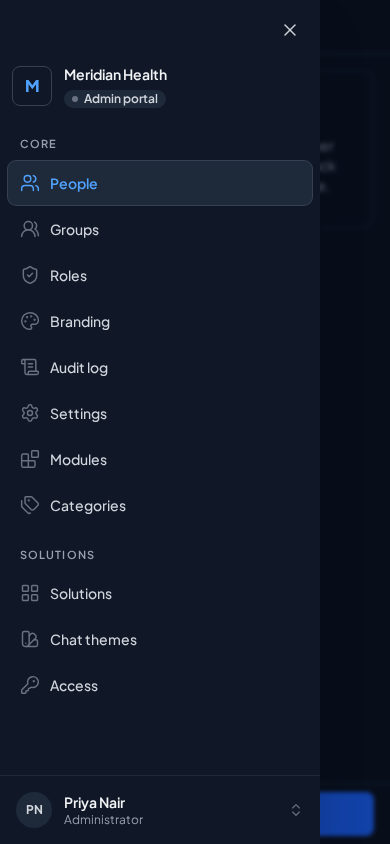
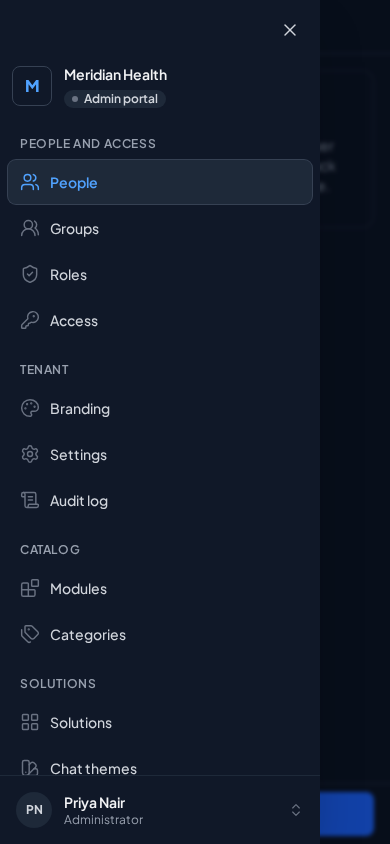
docs(design): update shell
Shared overlay and demo state fixes with recaptured screens.

diff --git a/docs/design/reference/shell/demoState.ts b/docs/design/reference/shell/demoState.ts
@@ -25,18 +25,46 @@ export interface DemoNav {
   items: Record<string, string | null>
   /** Module id to `tenant_module.enabled`, for the modules the preview switched. */
   enabled: Record<string, boolean>
+  /**
+   * Module id to "its reintroduction review was completed". A returned module needs that review once.
+   * Afterwards it is an ordinary module, so switching it off and on again is the ordinary one-step
+   * flow and never asks for a second review. Enablement alone cannot carry this, because an ordinary
+   * switched-off module and a module still awaiting its review both read `enabled: false`.
+   */
+  activated: Record<string, boolean>
+  /**
+   * Assignment ids the preview revoked on the Access screen. The reintroduction review of a
+   * returned module reads its retained assignments from the same ids, so removing one in Access and
+   * reopening the review shows a shorter list and a lower restore count. The product reads both
+   * lists from `role_assignment`; the preview keeps this record because each screen is a fresh page
+   * load.
+   */
+  revokedGrants: string[]
+  /**
+   * Module id to the values Tenant settings saved, so a reopened activation review shows the
+   * configuration the administrator just wrote. Saving settings never writes `enabled`, so this
+   * record never carries enablement.
+   */
+  moduleConfig: Record<string, Record<string, string | number | boolean | string[]>>
 }
 
 const KEY = 'genie.demo.nav'
 const EVENT = 'genie-demo-nav'
-const EMPTY: DemoNav = { categories: null, items: {}, enabled: {} }
+const EMPTY: DemoNav = { categories: null, items: {}, enabled: {}, activated: {}, revokedGrants: [], moduleConfig: {} }
 
 export function readDemoNav(): DemoNav {
   try {
     const raw = window.localStorage.getItem(KEY)
     if (!raw) return EMPTY
     const parsed = JSON.parse(raw) as Partial<DemoNav>
-    return { categories: parsed.categories ?? null, items: parsed.items ?? {}, enabled: parsed.enabled ?? {} }
+    return {
+      categories: parsed.categories ?? null,
+      items: parsed.items ?? {},
+      enabled: parsed.enabled ?? {},
+      activated: parsed.activated ?? {},
+      revokedGrants: parsed.revokedGrants ?? [],
+      moduleConfig: parsed.moduleConfig ?? {},
+    }
   } catch {
     return EMPTY
   }

diff --git a/docs/design/reference/shell/components/ShellWrapper.tsx b/docs/design/reference/shell/components/ShellWrapper.tsx
@@ -46,16 +46,18 @@ const workspaceNav = (active?: string) => [
 
 const adminNav = (active?: string) =>
   [
-    { label: 'People', href: '/admin/people', icon: Users, section: 'Core' },
-    { label: 'Groups', href: '/admin/groups', icon: UsersRound, section: 'Core' },
-    { label: 'Roles', href: '/admin/roles', icon: ShieldCheck, section: 'Core' },
+    // Core owns three captions, not one. Nine rows under a single CORE heading read as a flat list,
+    // and the admin rail has no child level to indent, so the grouping has to carry the hierarchy.
+    { label: 'People', href: '/admin/people', icon: Users, section: 'People and access' },
+    { label: 'Groups', href: '/admin/groups', icon: UsersRound, section: 'People and access' },
+    { label: 'Roles', href: '/admin/roles', icon: ShieldCheck, section: 'People and access' },
     // Access is core administration, so it stays reachable when the solutions module is switched off.
-    { label: 'Access', href: '/admin/access', icon: KeyRound, section: 'Core' },
-    { label: 'Branding', href: '/admin/branding', icon: Palette, section: 'Core' },
-    { label: 'Audit log', href: '/admin/audit', icon: ScrollText, section: 'Core' },
-    { label: 'Settings', href: '/admin/settings', icon: Settings, section: 'Core' },
-    { label: 'Modules', href: '/admin/modules', icon: Blocks, section: 'Core' },
-    { label: 'Categories', href: '/admin/categories', icon: Tags, section: 'Core' },
+    { label: 'Access', href: '/admin/access', icon: KeyRound, section: 'People and access' },
+    { label: 'Branding', href: '/admin/branding', icon: Palette, section: 'Tenant' },
+    { label: 'Settings', href: '/admin/settings', icon: Settings, section: 'Tenant' },
+    { label: 'Audit log', href: '/admin/audit', icon: ScrollText, section: 'Tenant' },
+    { label: 'Modules', href: '/admin/modules', icon: Blocks, section: 'Catalog' },
+    { label: 'Categories', href: '/admin/categories', icon: Tags, section: 'Catalog' },
     { label: 'Solutions', href: '/admin/solutions/solutions', icon: LayoutGrid, section: 'Solutions' },
     { label: 'Chat themes', href: '/admin/solutions/themes', icon: SwatchBook, section: 'Solutions' },
   ].map((i) => ({ ...i, isActive: i.href === active }))

diff --git a/docs/design/reference/shell/ShellPreview.tsx b/docs/design/reference/shell/ShellPreview.tsx
@@ -30,17 +30,18 @@ const workspaceNav = [
 ]
 
 const adminNav = [
-  { label: 'People', href: '/admin/people', isActive: true, icon: Users, section: 'Core' },
-  { label: 'Groups', href: '/admin/groups', icon: UsersRound, section: 'Core' },
-  { label: 'Roles', href: '/admin/roles', icon: ShieldCheck, section: 'Core' },
-  { label: 'Branding', href: '/admin/branding', icon: Palette, section: 'Core' },
-  { label: 'Audit log', href: '/admin/audit', icon: ScrollText, section: 'Core' },
-  { label: 'Settings', href: '/admin/settings', icon: Settings, section: 'Core' },
-  { label: 'Modules', href: '/admin/modules', icon: Blocks, section: 'Core' },
-  { label: 'Categories', href: '/admin/categories', icon: Tags, section: 'Core' },
+  { label: 'People', href: '/admin/people', isActive: true, icon: Users, section: 'People and access' },
+  { label: 'Groups', href: '/admin/groups', icon: UsersRound, section: 'People and access' },
+  { label: 'Roles', href: '/admin/roles', icon: ShieldCheck, section: 'People and access' },
+  // Access is core administration, so it stays reachable when the solutions module is switched off.
+  { label: 'Access', href: '/admin/access', icon: KeyRound, section: 'People and access' },
+  { label: 'Branding', href: '/admin/branding', icon: Palette, section: 'Tenant' },
+  { label: 'Settings', href: '/admin/settings', icon: Settings, section: 'Tenant' },
+  { label: 'Audit log', href: '/admin/audit', icon: ScrollText, section: 'Tenant' },
+  { label: 'Modules', href: '/admin/modules', icon: Blocks, section: 'Catalog' },
+  { label: 'Categories', href: '/admin/categories', icon: Tags, section: 'Catalog' },
   { label: 'Solutions', href: '/admin/solutions/solutions', icon: LayoutGrid, section: 'Solutions' },
   { label: 'Chat themes', href: '/admin/solutions/themes', icon: SwatchBook, section: 'Solutions' },
-  { label: 'Access', href: '/admin/solutions/access', icon: KeyRound, section: 'Solutions' },
 ]
 
 // Core category rows (DEC-51). Entries reference them by id.

diff --git a/docs/design/reference/shell/components/MainNav.tsx b/docs/design/reference/shell/components/MainNav.tsx
@@ -45,7 +45,7 @@ interface MainNavProps {
 
 export function GroupLabel({ children }: { children: React.ReactNode }) {
   return (
-    <div className="px-3 pb-1.5 pt-5 text-[11px] font-semibold uppercase tracking-[0.1em] text-gray-500 dark:text-gray-400">
+    <div className="px-3 pb-1.5 pt-5 text-xs font-semibold uppercase tracking-wider text-gray-600 dark:text-gray-400">
       {children}
     </div>
   )
@@ -57,7 +57,7 @@ const navRow = 'text-sm lg:h-10'
 const treeRow = 'text-sm lg:h-8'
 // A category is a heading, not a destination, so it is smaller and heavier than the
 // entries under it. The entries keep the readable size, because they are what you click.
-const catRow = 'text-[13px] lg:h-8'
+const catRow = 'text-sm lg:h-8'
 // Every row is medium and the selected one semibold, as the section navigator does.
 // The label sits in a fixed flex-1 box and 500 to 600 changes its advance by at most
 // 1px on a 62px label, so selecting a row never moves the text.
@@ -67,7 +67,7 @@ const rowIdle =
 const rowChild =
   'font-medium text-gray-600 hover:bg-gray-200/60 hover:text-gray-900 dark:text-gray-400 dark:hover:bg-gray-800 dark:hover:text-gray-100'
 const rowCategory = 'font-semibold text-gray-900 hover:bg-gray-200/60 dark:text-gray-100 dark:hover:bg-gray-800'
-const rowActive = 'bg-white font-semibold text-blue-700 shadow-sm ring-1 ring-gray-200 dark:bg-gray-800 dark:text-blue-400 dark:ring-gray-700'
+const rowActive = 'bg-white font-semibold text-blue-700 ring-1 ring-gray-200 dark:bg-gray-800 dark:text-blue-400 dark:ring-gray-700'
 
 function go(onNavigate: ((href: string) => void) | undefined, href: string) {
   return (e: React.MouseEvent) => {

diff --git a/docs/design/shell/spec.md b/docs/design/shell/spec.md
@@ -9,22 +9,22 @@ One shell component with two chromes: the member workspace and the admin portal.
 - Inbox → Notification inbox, with a blue unread count pill on the right [workspace]. Deferred: the platform schedules the inbox screen after the core sections (`DEC-21`), so the shell hides this entry and the pill until then. The design is kept as delivered early.
 - Pinned rail → Up to six favorite solutions, drag to reorder, under the workspace nav [workspace]
 - Category tree → One tree: a collapsible group with a count per core category that holds at least one entry, mixing solution entries and module entries sorted by label, then an ungrouped "Other" area for entries with no category [workspace]
-- People → People, Groups, and Roles [admin, Core]
-- Groups → People, Groups, and Roles [admin, Core]
-- Roles → People, Groups, and Roles [admin, Core]
-- Access → Access: Grants writes every role assignment, Overview reads who reaches what (`DEC-39`) [admin, Core]. It sits in Core, not under a module, so it stays reachable when the solutions module is switched off
-- Branding → Branding [admin, Core]
-- Audit log → Audit and Tenant Settings [admin, Core]
-- Settings → Audit and Tenant Settings [admin, Core]
-- Modules → Modules page: every compiled module, on or off, its category, and who reaches it (`DEC-50`) [admin, Core]
-- Categories → Categories page: the headings that group solutions and modules in the sidebar (`DEC-51`) [admin, Core]
+- People → People, Groups, and Roles [admin, People and access]
+- Groups → People, Groups, and Roles [admin, People and access]
+- Roles → People, Groups, and Roles [admin, People and access]
+- Access → Access: Grants writes every role assignment, Overview reads who reaches what (`DEC-39`) [admin, People and access]. It sits in a core group, not under a module, so it stays reachable when the solutions module is switched off
+- Branding → Branding [admin, Tenant]
+- Settings → Audit and Tenant Settings [admin, Tenant]
+- Audit log → Audit and Tenant Settings [admin, Tenant]
+- Modules → Modules page: every compiled module, on or off, its category, and who reaches it (`DEC-50`) [admin, Catalog]
+- Categories → Categories page: the headings that group solutions and modules in the sidebar (`DEC-51`) [admin, Catalog]
 - Solutions → Solutions admin [admin, Solutions]
 - Chat themes → Solutions admin [admin, Solutions]
 - Administration / Back to workspace → Switch chrome, in the user menu, only for admins
 - Account → Account page, in the user menu (`/account` or `/admin/account` so the chrome does not change)
 - Help and support → Tenant support URL or email from Branding Links, in the user menu
 
-Workspace sidebar, top to bottom: tenant block, WORKSPACE label, Solutions, Favorites, Inbox (hidden until the platform schedules the inbox screen, `DEC-21`), PINNED rail (at most six, drag to reorder, unchanged), divider, one category tree mixing solution and module entries, divider, the ungrouped "Other" area, user footer. The server decides what the tree shows: only entries the person may reach, and only categories that hold at least one of them. A module entry shows its icon; a solution entry shows none. Category names and "Other" entries start at the same x position, so the caret sits on the right. Admin sidebar: tenant block, ADMIN PORTAL pill, CORE group, one group per entitled module that declares admin pages, user footer. Future customer modules add one workspace entry and, if needed, one admin group.
+Workspace sidebar, top to bottom: tenant block, WORKSPACE label, Solutions, Favorites, Inbox (hidden until the platform schedules the inbox screen, `DEC-21`), PINNED rail (at most six, drag to reorder, unchanged), divider, one category tree mixing solution and module entries, divider, the ungrouped "Other" area, user footer. The server decides what the tree shows: only entries the person may reach, and only categories that hold at least one of them. A module entry shows its icon; a solution entry shows none. Category names and "Other" entries start at the same x position, so the caret sits on the right. Admin sidebar: tenant block, ADMIN PORTAL pill, the three core groups PEOPLE AND ACCESS, TENANT, and CATALOG in that order, then one group per entitled module that declares admin pages, user footer. Core carries three captions and not one, because nine rows under a single CORE caption read as one flat list with no grouping. The admin rail has no child level, so no row is indented and no guide rail is drawn: the captions carry the hierarchy. Future customer modules add one workspace entry and, if needed, one admin group.
 
 ## User Menu
 Sidebar footer in both chromes. Avatar with initials fallback, display name, and a `MonoChip` role chip (WORKSPACE MEMBER, ADMINISTRATOR). Opens upward with Account, Change password (local-account tenants only, opens the realm's account page), Administration or Back to workspace (admins only), Help and support, and Sign out. Sign out ends the Genie session and the Keycloak realm session.
